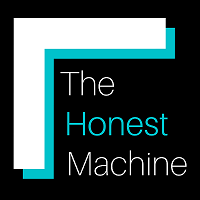
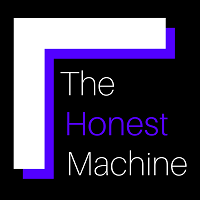
subtle styling

Changed region(s): [[0.09, 0.12, 0.9, 0.9], [0.51, 0.57, 0.84, 0.69], [0.33, 0.54, 0.51, 0.69]]

diff --git a/src/components/singleCard.js b/src/components/singleCard.js
@@ -47,7 +47,7 @@ export default function SingleCard({ post, clicked }) {
   }
 
   return (
-    <Card sx={{ minWidth: { xs: 312, md: 364 }, minHeight: "300px",margin: "10px",transition: "0.3s", boxShadow: "5px 5px 6px #5200ff", "&:hover": {boxShadow: "2px 2px 6px #5200ff"} }}>
+    <Card sx={{ minWidth: { xs: 312, md: 364 }, minHeight: "300px",margin: "10px",transition: "0.3s", boxShadow: "5px 5px 6px #5200ff", backgroundColor: "black", "&:hover": {boxShadow: "2px 2px 6px #5200ff"} }}>
       <CardHeader subheader={`${postedDate.toDateString()}`}>
       </CardHeader>
       <Link onClick={() => clicked(true)} href={`post/${post._id}`}>
@@ -61,7 +61,7 @@ export default function SingleCard({ post, clicked }) {
       <CardContent sx={{display: "flex", flexDirection: "column"}}>
           {categoryChip(post.category)}
         <Link onClick={() => clicked(true)} href={`post/${post._id}`}>
-          <Typography variant="h6" color="text.primary" sx={{paddingBottom: "10px", minHeight: "75px", textDecoration: "underline", textDecorationColor: "#5200ff", "&:hover": {textDecoration: "underline", textDecorationColor: "#a0d7d9"}}}>{post.title}</Typography>
+          <Typography variant="h6" color="text.primary" sx={{paddingBottom: "10px", minHeight: "75px", textDecoration: "underline", textDecorationColor: "#5200ff"}}>{post.title}</Typography>
           <Typography variant="body2" color="text.secondary" sx={{maxHeight: "100px", overflow: "hidden"}}>{post.description.slice(0,175)}...</Typography>
         </Link>  
       </CardContent>
@@ -69,7 +69,7 @@ export default function SingleCard({ post, clicked }) {
         <IconButton aria-label="share" onClick={handleOpen}>
             <ShareIcon sx={{color: "white"}}/>
           </IconButton>
-        <Link onClick={() => clicked(true)} href={`post/${post._id}`}><Button sx={{color: "white", textDecoration: "underline", textDecorationColor: "#5200ff"}} size="small">...Continue Reading</Button></Link>
+        <Link onClick={() => clicked(true)} href={`post/${post._id}`}><Button sx={{color: "white", textDecoration: "underline", textDecorationColor: "#5200ff"}} size="small">Read Article</Button></Link>
       </CardActions>
       <ShareModal postId={post._id} title={post.title} open={open} onClose={handleClose}/>
     </Card>

diff --git a/src/seo/config.js b/src/seo/config.js
@@ -2,6 +2,6 @@ exports.seoConfig = {
     host: "https://thehonestmachine.com",
     title: "The Honest Machine",
     description: "The Honest Machine is a blog website that focuses on providing honest and insightful articles about trending technologies. From the latest gadgets and software to cutting-edge advancements in the tech industry, The Honest Machine aims to keep readers informed and up-to-date. The website is a go-to source for technology enthusiasts and professionals alike who are looking for reliable and informative content. With a team of knowledgeable and experienced writers, The Honest Machine provides a fresh perspective on the ever-changing world of technology.",
-    mainBlogLogo: "https://firebasestorage.googleapis.com/v0/b/thm-image-save.appspot.com/o/thm-400.png?alt=media&token=6933023f-871e-4633-a167-3fb060e5d58c",
+    mainBlogLogo: "https://firebasestorage.googleapis.com/v0/b/thm-image-save.appspot.com/o/thm-400.png?alt=media&token=56f1d130-e8b1-4895-885a-8bd6515300cb",
     keywords: "THM, The Honest Machine, Automated Articles, Articles By GPT, GPT, GPT3, Chat GPT, Technology news, Gadget reviews, Software updates, Tech trends, Artificial intelligence, Internet of Things (IoT), Cybersecurity, Cloud computing, Virtual reality, Augmented reality, Machine learning, Data science, Mobile apps, Social media, Wearable technology, Blockchain, Tech startups, Digital marketing, E-commerce, Gaming"
 }

diff --git a/src/components/loadingContentSpinner.js b/src/components/loadingContentSpinner.js
@@ -7,7 +7,7 @@ function LoadingContentSpinner() {
         // Grid layout
         <Grid container style={{ display: "flex", width: "100%", height: "75vh", justifyContent: "center", alignItems: "center" }}>
             <CssVarsProvider>
-                <CircularProgress variant="solid" size="md" />
+                <CircularProgress variant="solid" size="sm" />
             </CssVarsProvider>
         </Grid>
     )

diff --git a/src/components/header.js b/src/components/header.js
@@ -34,7 +34,7 @@ function Header() {
   }
 
   return (
-    <AppBar position="static" sx={{background: "linear-gradient(90deg, rgba(56,0,134,1) 0%, rgba(56,0,139,1) 54%, rgba(26,0,81,1) 100%)"}}>
+    <AppBar position="static" sx={{background: "black"}}>
       <Container maxWidth="xl" >
         <Toolbar disableGutters>
                   <Box sx={{ display: { xs: 'none', md: 'flex' }, mr: 1 }}>  
